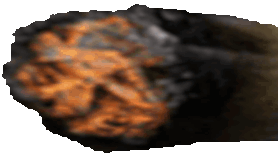
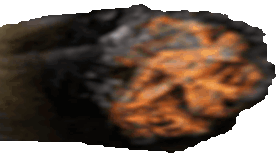
fixes

diff --git a/zazacat9000/index.html b/zazacat9000/index.html
@@ -3,7 +3,7 @@
 <head>
     <meta charset="UTF-8">
     <meta name="viewport" content="width=device-width, initial-scale=1.0">
-    <title>Three Sections - Stretched Images</title>
+    <title>Zazacat</title>
     <style>
         * {
             margin: 0;
@@ -31,13 +31,13 @@
             overflow: hidden;
         }
 	  #section1 {
-		width: calc(var(--size) * 1.8051948052)
+		width: calc(var(--size) * 0.5519480519)
 	  }
 	  #section2 {
 		width: calc(var(--size) * 2.3246753247)
 	  }
 	  #section3 {
-		width: calc(var(--size) * 0.5519480519)
+		width: calc(var(--size) * 1.8051948052)
 	  }
         .section img {
             width: 100%;
@@ -79,13 +79,13 @@
     <button id="expandButton">PRESS ME >:3</button>
     <div class="container">
         <div id="section1" class="section">
-            <img src="a.png" alt="Image 1">
+            <img src="c.png" alt="Image 1">
         </div>
         <div id="section2" class="section">
             <img src="b.png" alt="Image 2">
         </div>
         <div id="section3" class="section">
-            <img src="c.png" alt="Image 3">
+            <img src="a.png" alt="Image 3">
         </div>
     </div>
 
